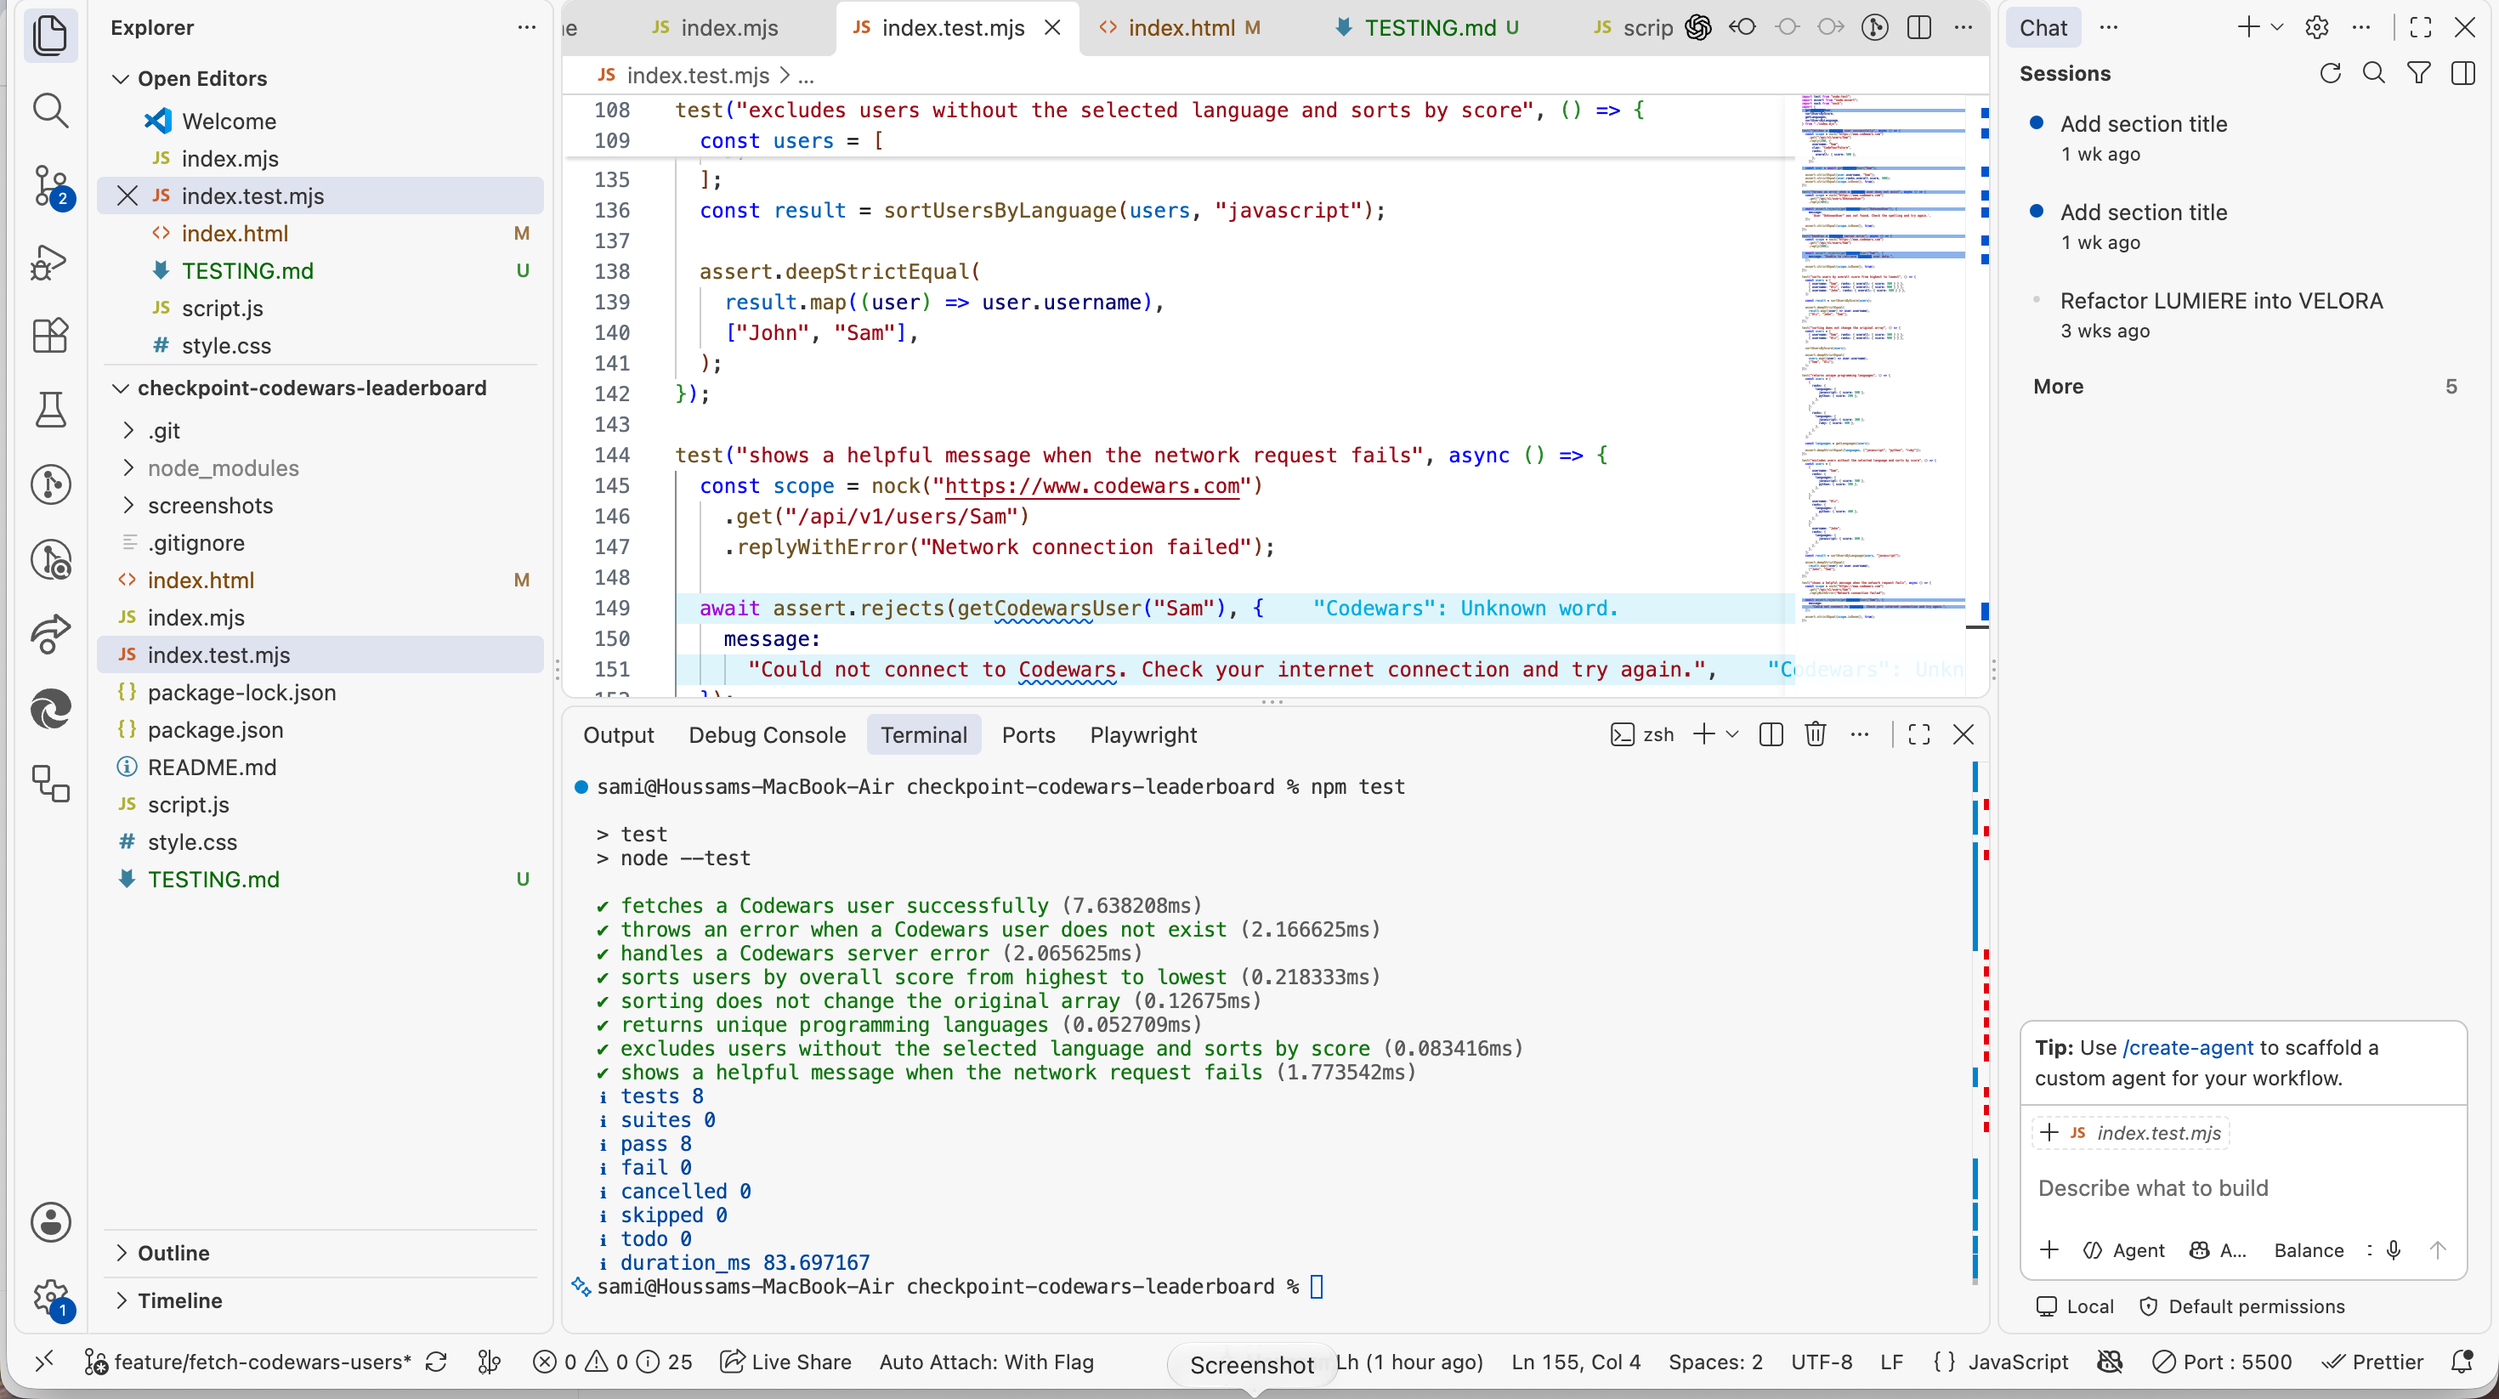
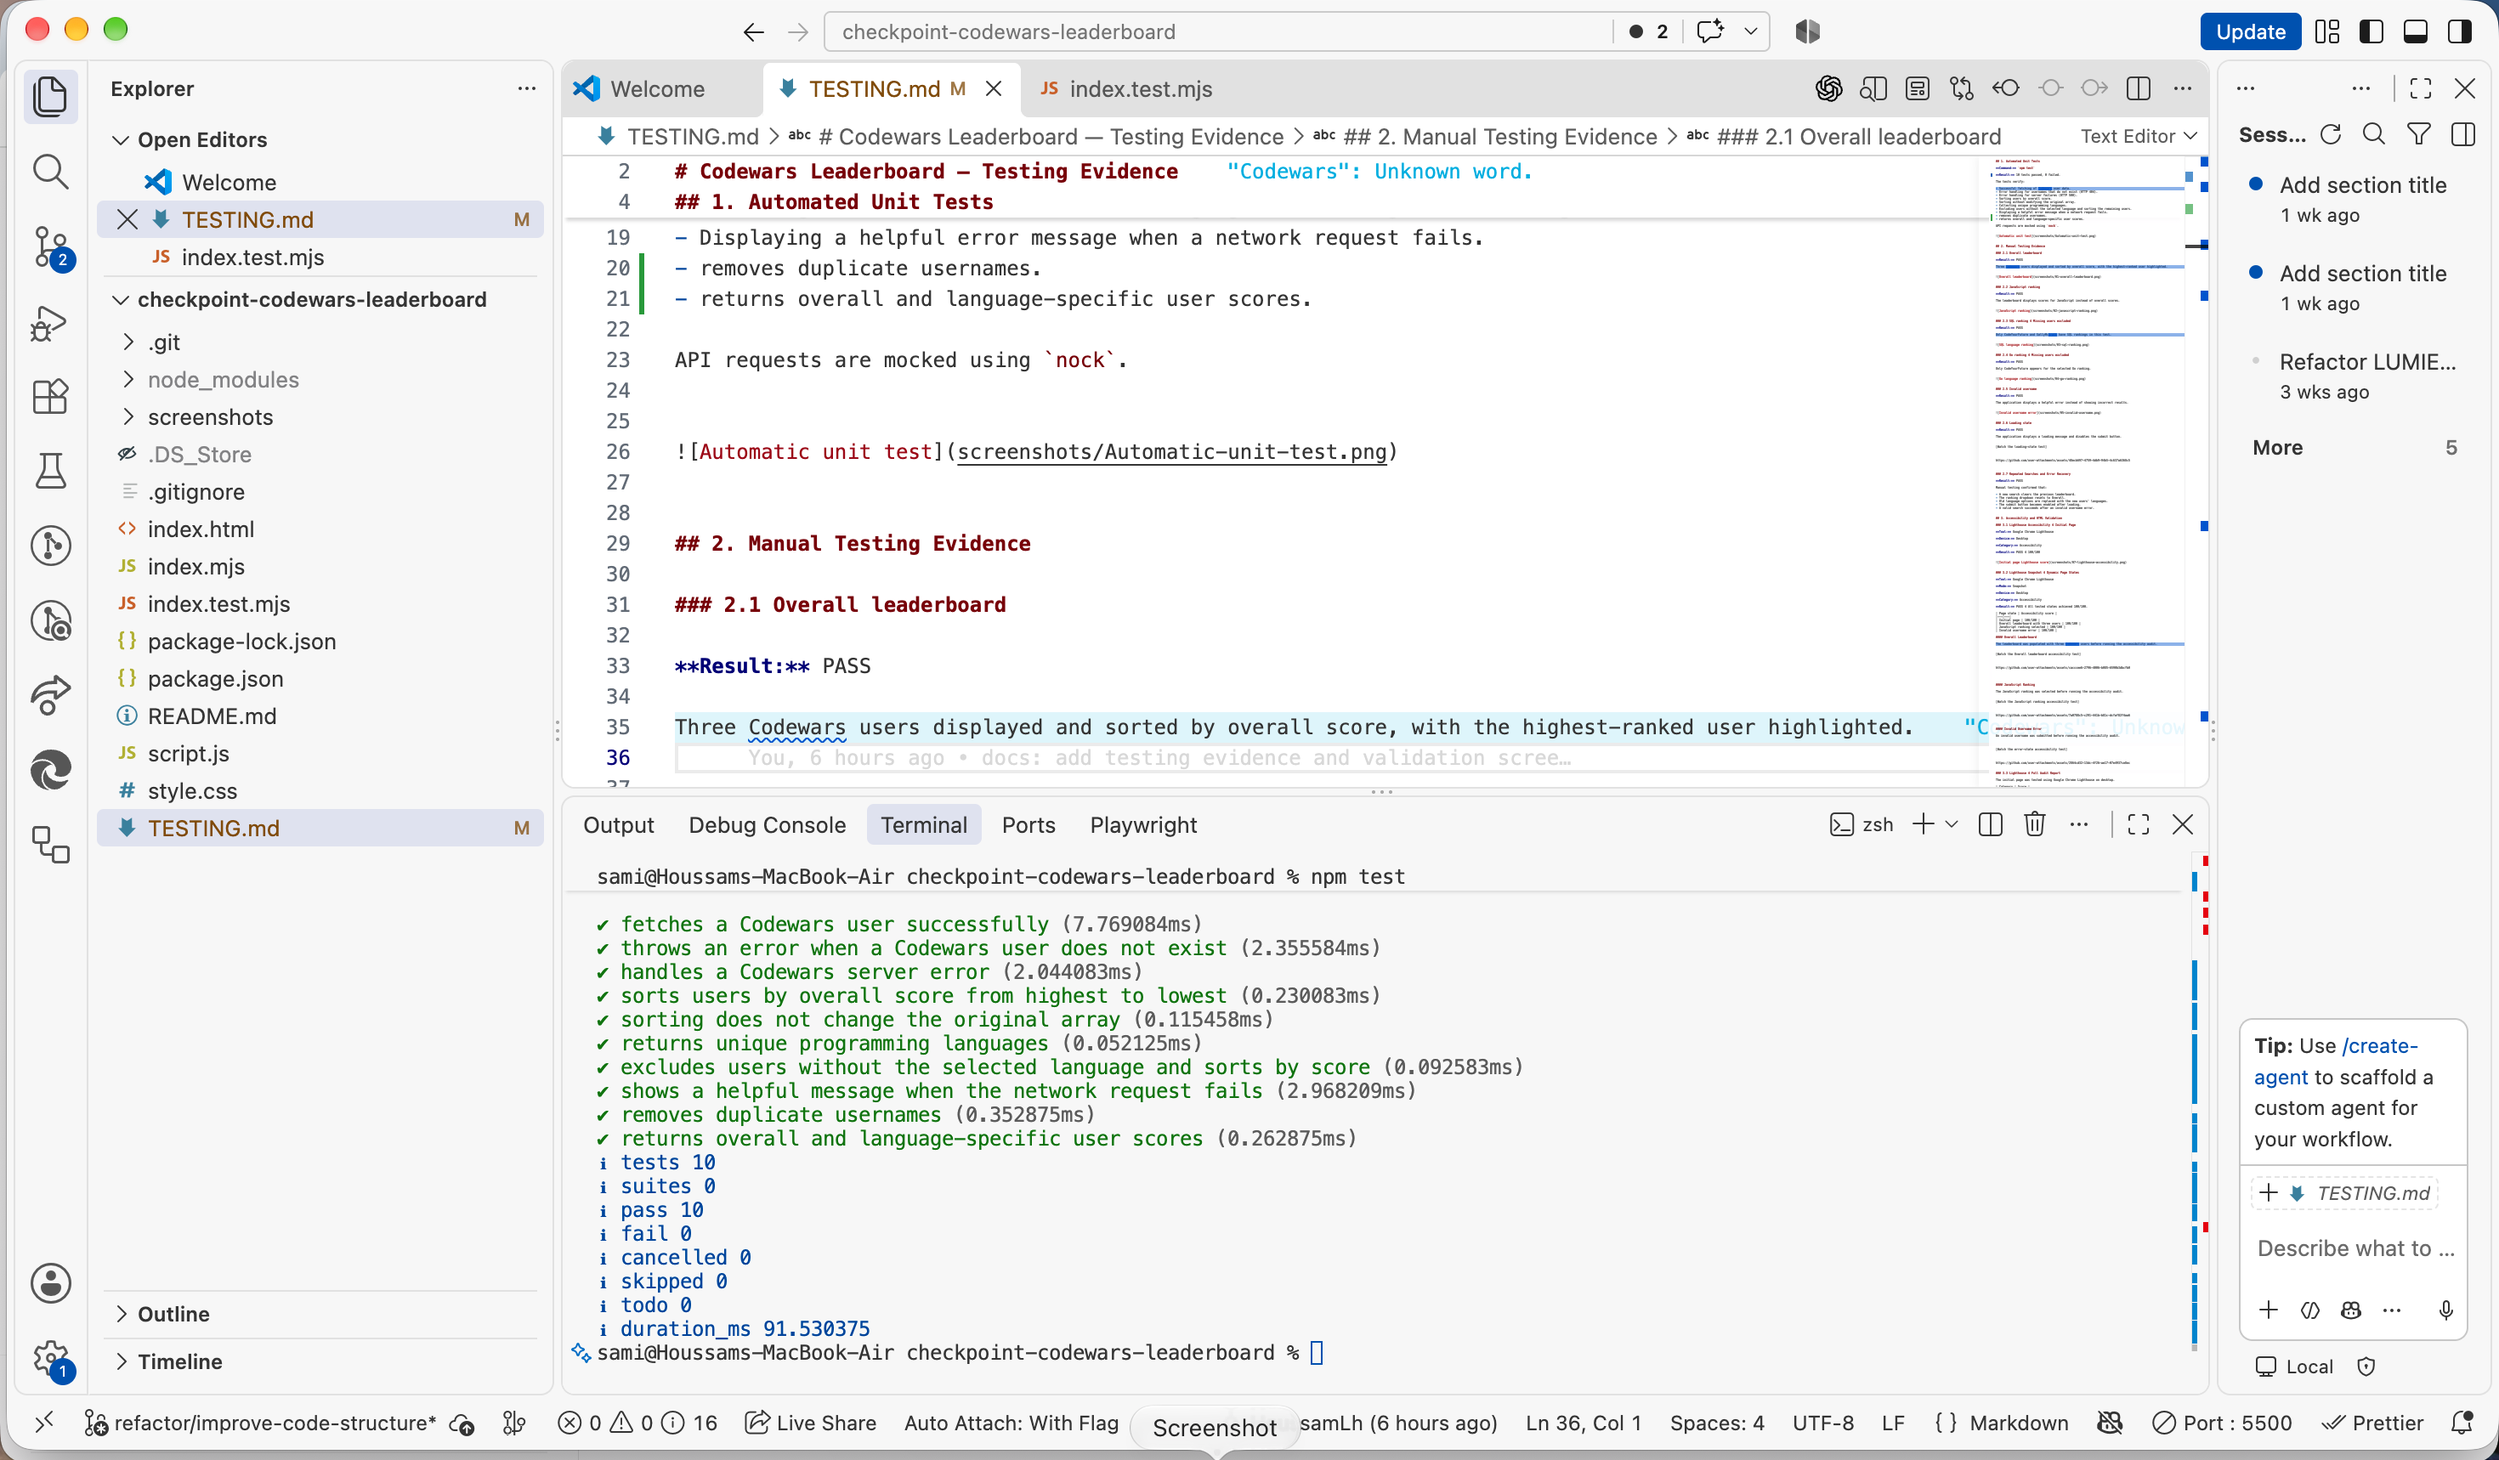
refactor: update testing.md file

diff --git a/TESTING.md b/TESTING.md
@@ -5,7 +5,7 @@
 
 **Command:** `npm test`
 
-**Result:** 8 tests passed, 0 failed.
+**Result:** 10 tests passed, 0 failed.
 
 The tests verify:
 
@@ -17,6 +17,8 @@ The tests verify:
 - Collecting unique programming languages.
 - Excluding users without the selected language and sorting the remaining users.
 - Displaying a helpful error message when a network request fails.
+- removes duplicate usernames.
+- returns overall and language-specific user scores.
 
 API requests are mocked using `nock`.
 
